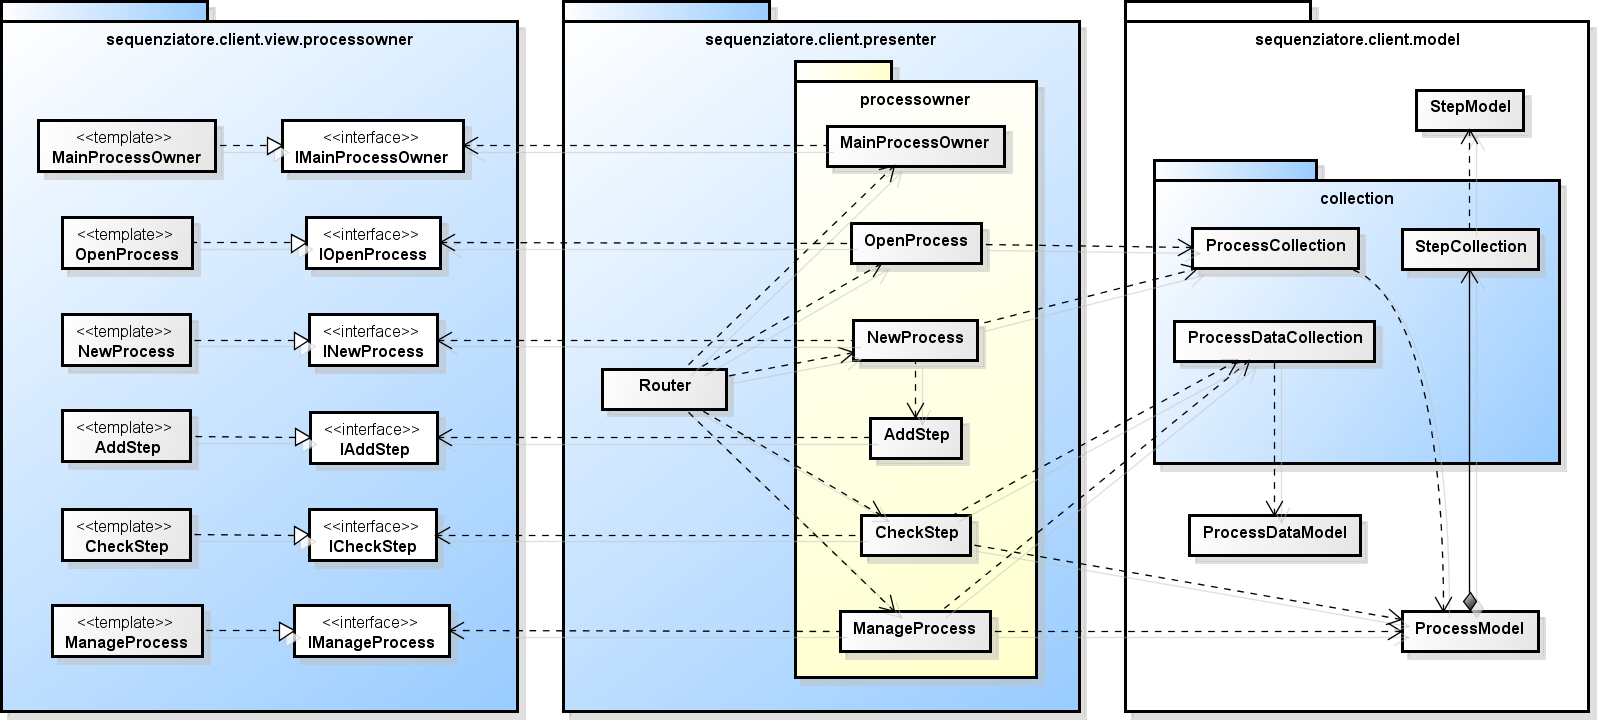
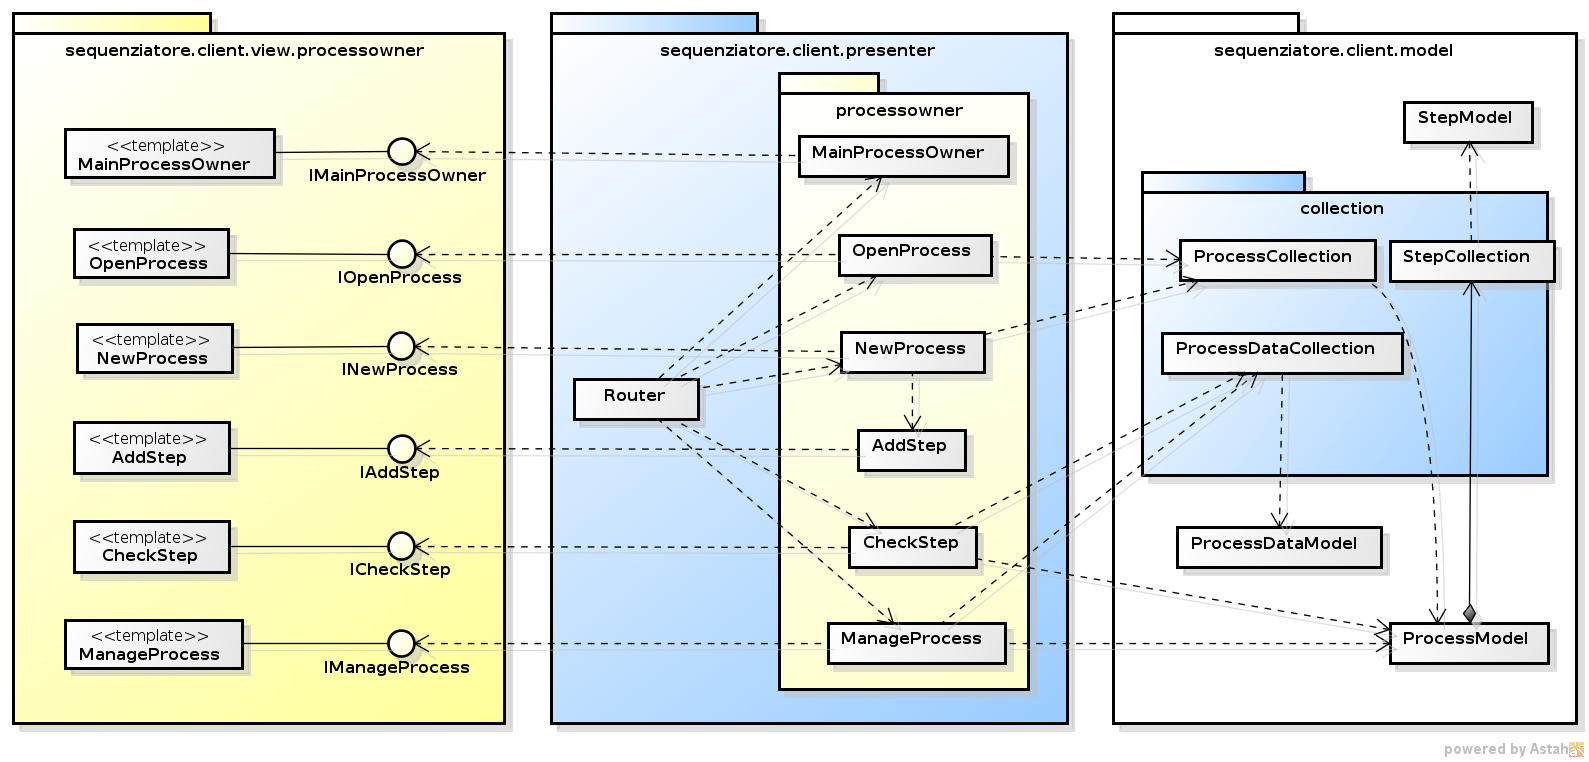
Aggiunto descrizionepackage: contiene la descrizione dei package ho solo fatto lo scheletro per il server, aggiunto commando \client aggiunto immagini con uml 2.0, aggiunto uml in clientview per invio dati

diff --git a/SpecificaTecnica/DescrizionePackage.tex b/SpecificaTecnica/DescrizionePackage.tex
@@ -1,0 +1,57 @@
+\subsection{Diagrammi dei package}
+Il seguente capitolo descrive le dipendenze intercorse fra i vari package\ped{G} del sistema Sequenziatore.
+
+Il sistema Sequenziatore è composto da due macro package:
+\begin{enumerate}
+	\item sequenziatore.client: le componenti di questo package realizzano la parte front-end\ped{G} del sistema Sequenziatore 
+	\item sequenziatore.server: le componenti di questo package realizzano la parte back-end\ped{G} del sistema Sequenziatore 
+\end{enumerate}
+\subsubsection{Diagrammi del package \client{}}
+
+\begin{figure}[H] \centering \includegraphics[width=%
+\textwidth]
+{./pack/Client.png} \caption{Diagramma package - \textit{\client{}}}
+\end{figure}
+
+Il package sequenziatore.client è composto dai seguenti package:
+\begin{itemize}
+	\item \view{};
+	\item \logic{};
+	\item \model{}.
+\end{itemize}
+
+Come è facilmente intuibile, la struttura del package \client{} si basa sulla struttura del design patter
+architetturale Model View Presenter, scelto dal team Sirius per poter separare la logica di presentazione dei dati dalla logica di business.\\
+
+\paragraph{Package \view{}}
+Il package \view{} è composto da i seguenti package:
+\begin{itemize}
+	\item \viewAdmin{}: contiene le classi e interfacce necessarie a gestire 
+l’interfaccia grafica e a generare gli eventi della parte grafica dell'utente process owner .
+	\item \viewUser{}: contiene le classi e interfacce necessarie a gestire l’interfaccia
+grafica e a generare gli eventi della parte grafica dell’utente.
+\end{itemize}
+\paragraph{Package \logic{}}
+Il package \logic{} contiene tutte le classi e interfacce del Presenter della 
+parte client\ped{G} del sistema Sequenziatore; ed è composto da i seguenti package:
+\begin{itemize}
+	\item \logicAdmin{}: contiene le classi che costituiscono la componente Presenter
+per l’utente amministratore, il package \logicAdmin{} permette gestisce gli eventi generati dalle componenti del package \viewAdmin{} e 
+aggiorna la parte grafica dell'utente process owner;
+	\item \logicUser{}: contiene le classi che permettono la gestiscione degli gli eventi generati dalle componenti del package\ped{g}
+\viewUser{} e l'aggiornamento della parte grafica per l'utente generico e autenticato.
+\end{itemize}
+\paragraph{Package \model{}}
+Il package \model{} contiene tutte le classi della componente Model. Ogni classe del package \model{} possiede gli opportuni metodi per poter
+comunicare col server e poter accedere, modificare e salvare in modo persistente questi ultimi.
+Il package è contiene inoltre il package:
+\begin{itemize}
+	\item \collection{}: è composto da classi che implementano collezioni di classi del package \model{}.
+\end{itemize} 
+
+
+\subsubsection{Diagrammi del package \server{}}
+I package che compongono il package \server{} sono:
+\begin{itemize}
+\end{itemize}
+

diff --git a/SpecificaTecnica/ClientView.tex b/SpecificaTecnica/ClientView.tex
@@ -1,5 +1,7 @@
 \section{Descrizione singoli componenti}
 
+\subsection{Package \client{}}
+
 \begin{figure}[H] \centering \includegraphics[width=%
 \textwidth]
 {./pack/POPackage.png} \caption{Diagramma componenti - \textit{process owner}}
@@ -7,7 +9,12 @@
 
 \begin{figure}[H] \centering \includegraphics[width=%
 \textwidth]
-{./pack/UserMainPackage.png} \caption{Diagramma componenti - \textit{utente}}
+{./pack/UserMainPackage.png} \caption{Diagramma componenti - \textit{user}}
+\end{figure}
+
+\begin{figure}[H] \centering \includegraphics[width=%
+\textwidth]
+{./pack/ManageProcess.png} \caption{Diagramma componenti bis - \textit{user}}
 \end{figure}
 
 

diff --git a/SpecificaTecnica/SpecificaTecnica_v1.0.0.tex b/SpecificaTecnica/SpecificaTecnica_v1.0.0.tex
@@ -25,14 +25,15 @@
 
 \input{../modello/firstpage.tex}%pagina del titolo
 \input{../modello/info.tex}
-\listoftables
-\listoffigures
+%\listoftables
+%\listoffigures
 \pagenumbering{arabic}%numeri di pagina  arabi
 
 \input{PackageCommands.tex}
 
 \include{Introduzione}
 \include{DefinizioneArchitettura}
+\include{DescrizionePackage}
 \include{ClientView}
 \include{ClientPresenter}
 \include{ClientModel}
